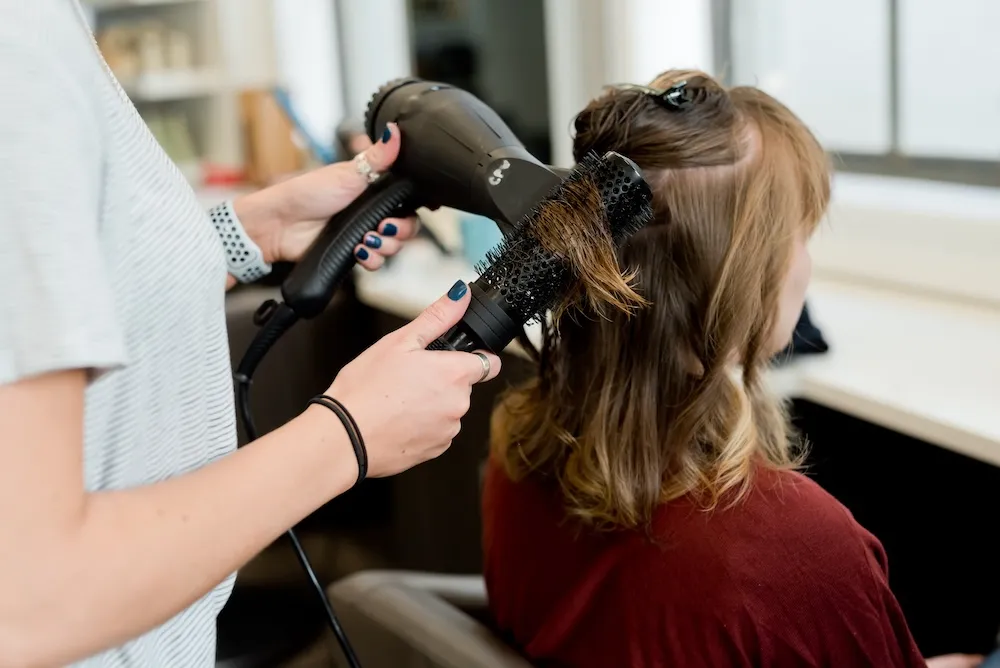
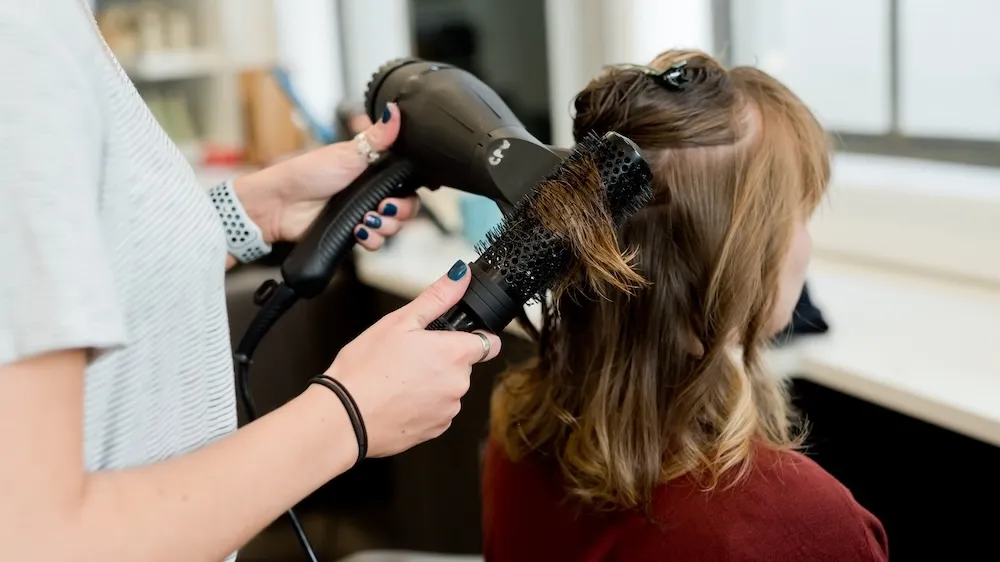
posterの縦横比を修正

diff --git a/about.html b/about.html
@@ -112,7 +112,7 @@
     
                         <div class="swiper-slide slide" id="slide2">
                             <div class="video-wrapper vr2">
-                                <video id="video2" class="video video2" src="./assets/img/about/video2.mp4" playsinline poster="./assets/img/about/poster2.webp"></video>
+                                <video id="video2" class="video video2" src="./assets/img/about/video2.mp4" playsinline poster="./assets/img/about/poster2.webp?ver2"></video>
                                 <img src="./assets/img/about/saisei.svg" alt="" class="btn movie-btn movie-btn2" data-index="2">
                             </div>
                             <p class="desc">video2 description video2 description video2 description video2 description</p>
@@ -120,7 +120,7 @@
     
                         <div class="swiper-slide slide" id="slide3">
                             <div class="video-wrapper vr3">
-                                <video id="video3" class="video video3" src="./assets/img/about/video3.mp4" playsinline poster="./assets/img/about/poster3.webp"></video>
+                                <video id="video3" class="video video3" src="./assets/img/about/video3.mp4" playsinline poster="./assets/img/about/poster3.webp?ver2"></video>
                                 <img src="./assets/img/about/saisei.svg" alt="" class="btn movie-btn movie-btn3" data-index="3">
                             </div>
                             <p class="desc">description of video3 description of video3 description of video3 description of video3 </p>
@@ -128,7 +128,7 @@
     
                         <div class="swiper-slide slide" id="slide4">
                             <div class="video-wrapper vr4">
-                                <video id="video4" class="video video4" src="./assets/img/about/video4.mp4" playsinline poster="./assets/img/about/poster4.webp"></video>
+                                <video id="video4" class="video video4" src="./assets/img/about/video4.mp4" playsinline poster="./assets/img/about/poster4.webp?ver2"></video>
                                 <img src="./assets/img/about/saisei.svg" alt="" class="btn movie-btn movie-btn4" data-index="4">
                             </div>
                             <p class="desc">description of video4 description of video4 description of video4 description of video4</p>
